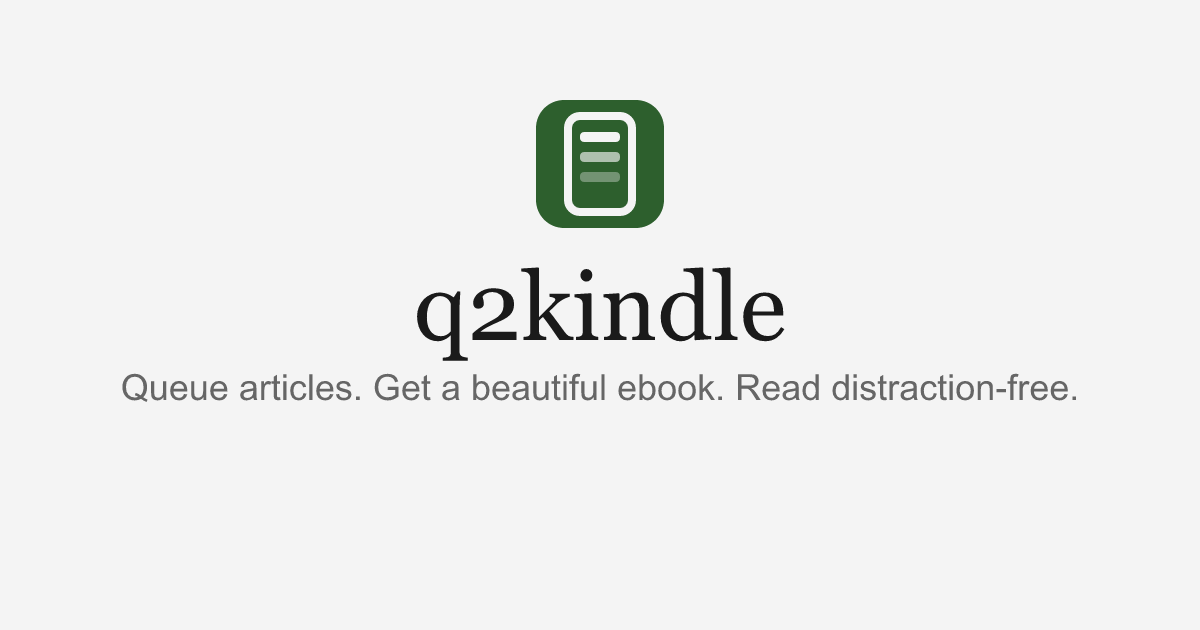
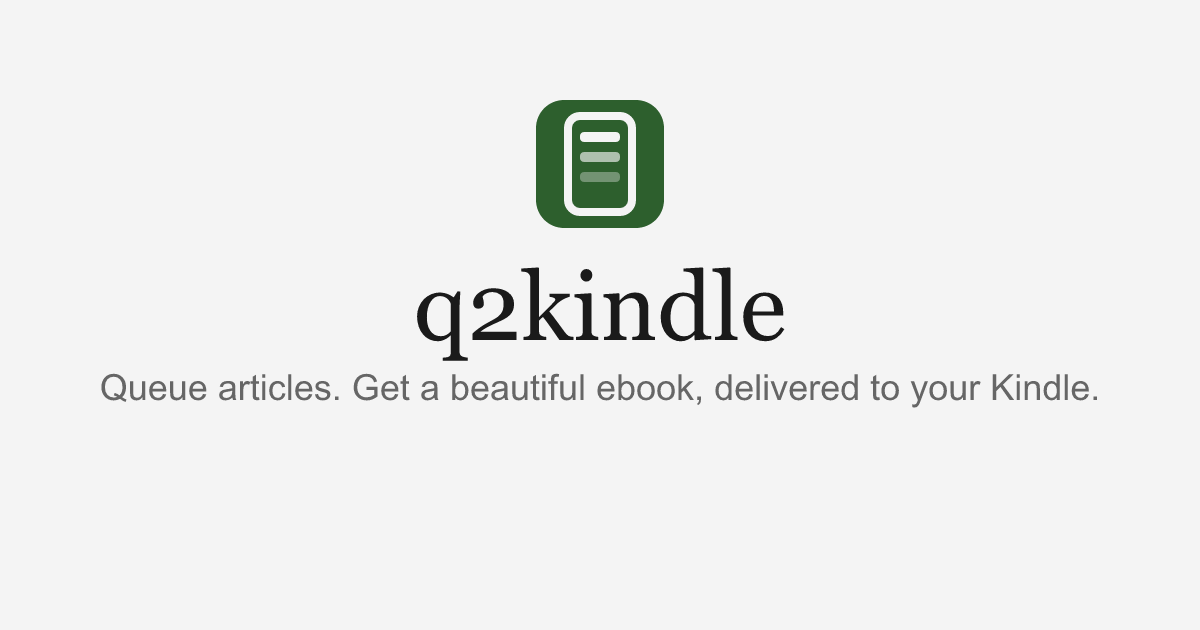
Update OG tagline to mention Kindle for link preview context
"Queue articles. Get a beautiful ebook, delivered to your Kindle."
Updated in SVG, regenerated PNG, and synced layout.tsx meta tags.

Changed region(s): [[0.0617, 0.573, 0.925, 0.6333]]

diff --git a/web/src/app/layout.tsx b/web/src/app/layout.tsx
@@ -21,11 +21,11 @@ const inter = Inter({
 
 export const metadata: Metadata = {
   title: "q2kindle",
-  description: "Queue articles. Get a beautiful ebook. Read distraction-free.",
+  description: "Queue articles. Get a beautiful ebook, delivered to your Kindle.",
   metadataBase: new URL("https://q2kindle.com"),
   openGraph: {
     title: "q2kindle",
-    description: "Queue articles. Get a beautiful ebook. Read distraction-free.",
+    description: "Queue articles. Get a beautiful ebook, delivered to your Kindle.",
     url: "https://q2kindle.com",
     siteName: "q2kindle",
     images: [
@@ -40,7 +40,7 @@ export const metadata: Metadata = {
   twitter: {
     card: "summary_large_image",
     title: "q2kindle",
-    description: "Queue articles. Get a beautiful ebook. Read distraction-free.",
+    description: "Queue articles. Get a beautiful ebook, delivered to your Kindle.",
     images: ["/og-image.png"],
   },
 };
